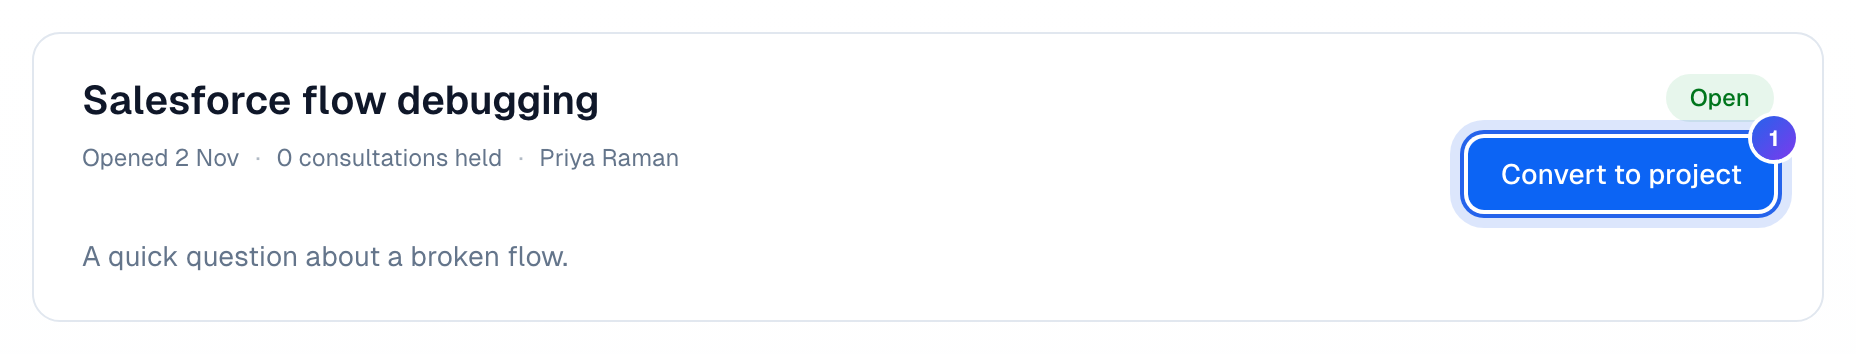
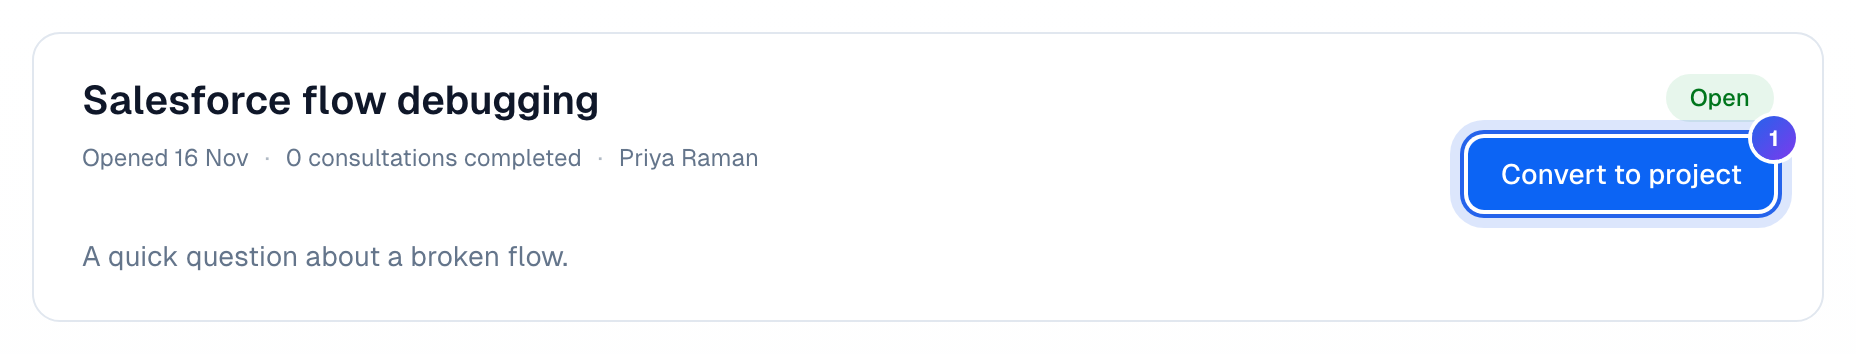
fix: recap "Didn't take place" chip, no-show "Room open" line, counted noun, fresh help shots (BAL-648)
Review follow-ups on the Held -> Completed change:

- recap status chip: "Not held" -> "Didn't take place" (it sat beside
  "Completed" in the same chip set and negated the retired word)
- no-show money line: "N min call" -> "Room open N min · billed at the
  …-minute minimum" — the client never joined, so "call" contradicted
  the chip; this states the room time and names nobody
- case cards: "N completed" -> "N consultation(s) completed", so it
  can't be read as action items done next to "3 for you"
- help screenshots re-captured: your-cases/03 and
  turning-a-case-into-a-project/01 (light + dark) showed the old word

Changed region(s): [[0.0938, 0.404, 0.4062, 0.4661]]

diff --git a/apps/web/src/app/(dashboard)/meetings/[meetingId]/_lib/load-recap.test.ts b/apps/web/src/app/(dashboard)/meetings/[meetingId]/_lib/load-recap.test.ts
@@ -743,25 +743,25 @@ describe('loadRecap — resolve prompt, artefacts and status', () => {
     expect(view?.state).toBe('processing');
   });
 
-  it('renders the not-held panel and a Not held chip for a no-show', async () => {
+  it('renders the not-held panel and a didn’t-take-place chip for a no-show', async () => {
     mockResolveAccess.mockResolvedValue({
       ...CASE_ACCESS,
       meeting: { ...MEETING, outcome: 'no_show_client' },
     });
     const view = await loadRecap(MEETING_ID, USER_ID, NOW);
     expect(view?.state).toBe('not_held');
-    expect(view?.header.status.label).toBe('Not held');
+    expect(view?.header.status.label).toBe("Didn't take place");
     expect(view?.notHeld?.body).toBe('Amara Okafor @ CloudPeak joined and waited.');
   });
 
-  it('renders the not-held panel and a Not held chip for venue_unavailable — never Completed', async () => {
+  it('renders the not-held panel and a didn’t-take-place chip for venue_unavailable — never Completed', async () => {
     mockResolveAccess.mockResolvedValue({
       ...CASE_ACCESS,
       meeting: { ...MEETING, outcome: 'venue_unavailable' },
     });
     const view = await loadRecap(MEETING_ID, USER_ID, NOW);
     expect(view?.state).toBe('not_held');
-    expect(view?.header.status.label).toBe('Not held');
+    expect(view?.header.status.label).toBe("Didn't take place");
     expect(view?.header.status.label).not.toBe('Completed');
     expect(view?.header.status.label).not.toBe('Wrapping up');
     expect(view?.notHeld?.reason).toBe('venue_unavailable');
@@ -1007,7 +1007,7 @@ describe('loadRecap — missed_call reads client-side presence', () => {
     const view = await loadRecap(MEETING_ID, USER_ID, NOW);
     expect(view?.lens).toBe('client');
     expect(view?.state).toBe('not_held');
-    expect(view?.header.status.label).toBe('Not held');
+    expect(view?.header.status.label).toBe("Didn't take place");
     expect(view?.notHeld).toEqual(NOBODY_JOINED_NOT_HELD);
   });
 

diff --git a/packages/shared/src/credit/money-block-display.ts b/packages/shared/src/credit/money-block-display.ts
@@ -39,7 +39,7 @@ export interface DurationLinePresence {
  * two zero shapes have no number to attach — there is nothing to floor when nobody was charged)
  * and on `billingFloorApplied` second. `no_show_client` is checked ahead of `billingFloorApplied`
  * — that shape now ALWAYS sets the flag (the floor is flatly the whole charge, owner ruling
- * 2026-08-21), but it wants its own "min call" phrasing rather than the generic short-call one,
+ * 2026-08-21), but it wants its own "Room open" phrasing rather than the generic short-call one,
  * so it must be matched first.
  *
  * Quiet fact, never punitive, never scolding, gender-neutral, no absence framing — the same
@@ -78,11 +78,11 @@ export function durationLine(block: SessionMoneyBlock, presence: DurationLinePre
     // F9, UX review round 1 — `actualMinutes`, not `durationMinutes`: `durationMinutes` is the
     // BILLED figure, which on this shape is FLATLY the floor (owner ruling 2026-08-21), so it
     // would state the floor twice while discarding the real time the expert held the room.
-    // "40 min call · billed at the 15-minute minimum" is now a TRUE statement — before R1 the
+    // "Room open 40 min · billed at the 15-minute minimum" is now a TRUE statement — before R1 the
     // client was actually charged 40 while this line claimed 15.
     return block.lens === 'client'
-      ? `${block.actualMinutes} min call · billed at the ${block.billingFloorMinutes}-minute minimum` // pending-MJ
-      : `${block.actualMinutes} min call · paid the ${block.billingFloorMinutes}-minute minimum`; // pending-MJ
+      ? `Room open ${block.actualMinutes} min · billed at the ${block.billingFloorMinutes}-minute minimum` // pending-MJ
+      : `Room open ${block.actualMinutes} min · paid the ${block.billingFloorMinutes}-minute minimum`; // pending-MJ
   }
   if (block.billingFloorApplied) {
     return block.lens === 'client'

diff --git a/apps/web/src/components/balo/recap/money-block.test.tsx b/apps/web/src/components/balo/recap/money-block.test.tsx
@@ -343,14 +343,16 @@ describe('MoneyBlock', () => {
   // real held time the expert waited is silently discarded.
   it('renders the no-show line keyed on shape, using actualMinutes not durationMinutes (client)', () => {
     render(<MoneyBlock block={CLIENT_NO_SHOW} />);
-    expect(screen.getByText('18 min call · billed at the 15-minute minimum')).toBeInTheDocument();
-    expect(screen.queryByText(/^15 min call/)).not.toBeInTheDocument();
+    expect(
+      screen.getByText('Room open 18 min · billed at the 15-minute minimum')
+    ).toBeInTheDocument();
+    expect(screen.queryByText(/Room open 15 min/)).not.toBeInTheDocument();
   });
 
   // UX review round 1, F8 — expert lens for the same shape must say "paid", never "billed".
   it('renders the no-show line for the expert lens', () => {
     render(<MoneyBlock block={EXPERT_NO_SHOW} />);
-    expect(screen.getByText('18 min call · paid the 15-minute minimum')).toBeInTheDocument();
+    expect(screen.getByText('Room open 18 min · paid the 15-minute minimum')).toBeInTheDocument();
     expect(screen.queryByText(/billed/)).not.toBeInTheDocument();
   });
 

diff --git a/packages/shared/src/credit/money-block.test.ts b/packages/shared/src/credit/money-block.test.ts
@@ -178,7 +178,7 @@ describe('BAL-412 — actualMinutes / billingFloorApplied / billingFloorMinutes 
     // R1 — `no_show_client` bills the floor FLAT (owner ruling, 2026-08-21), so the BILLED figure
     // (15) is BELOW `actualMinutes` (40). The old re-derivation `durationMinutes > actualMinutes`
     // reported `false` here — on the very shape where the floor IS the entire charge. The
-    // snapshot says `true`, and the recap's "40 min call · billed at the 15-minute minimum" is
+    // snapshot says `true`, and the recap's "Room open 40 min · billed at the 15-minute minimum" is
     // now a true statement.
     const block = buildClientMoneyBlock(
       clientInput({

diff --git a/packages/shared/src/credit/money-block-display.test.ts b/packages/shared/src/credit/money-block-display.test.ts
@@ -135,9 +135,11 @@ describe('durationLine', () => {
 
   it('renders the no-show line keyed on shape, using actualMinutes not durationMinutes', () => {
     expect(durationLine(CLIENT_NO_SHOW, NOT_READ)).toBe(
-      '18 min call · billed at the 15-minute minimum'
+      'Room open 18 min · billed at the 15-minute minimum'
     );
-    expect(durationLine(EXPERT_NO_SHOW, NOT_READ)).toBe('18 min call · paid the 15-minute minimum');
+    expect(durationLine(EXPERT_NO_SHOW, NOT_READ)).toBe(
+      'Room open 18 min · paid the 15-minute minimum'
+    );
   });
 
   it('renders the missed-call line, per lens', () => {

diff --git a/apps/web/src/app/(dashboard)/cases/_lib/cases-index-copy.ts b/apps/web/src/app/(dashboard)/cases/_lib/cases-index-copy.ts
@@ -135,7 +135,8 @@ export const CASES_INDEX_UNREAD = 'New';
 
 export const casesIndexLastCall = (date: string): string => `Last call ${date}`;
 export const casesIndexOpenedAt = (date: string): string => `Opened ${date}`;
-export const casesIndexHeldCount = (count: number): string => `${count} completed`;
+export const casesIndexHeldCount = (count: number): string =>
+  `${count} ${count === 1 ? 'consultation' : 'consultations'} completed`;
 export const casesIndexItemsForYou = (count: number): string => `${count} for you`;
 export const casesIndexWaitingOn = (party: string): string => `Waiting on ${party}`;
 

diff --git a/apps/web/src/app/(dashboard)/meetings/[meetingId]/_components/recap-status-chip.tsx b/apps/web/src/app/(dashboard)/meetings/[meetingId]/_components/recap-status-chip.tsx
@@ -12,7 +12,7 @@ import type { RecapStatusTone, RecapStatusView } from '@/lib/meetings/recap-view
  * cannot honestly supply. This chip carries the recap's own four labels, reuses the same
  * shipped `Badge` primitive and the same semantic tokens, and adds nothing else.
  *
- * ⚠ THE CHIP NEVER NAMES WHO WAS ABSENT. Both no-show outcomes read "Not held"; who was where
+ * ⚠ THE CHIP NEVER NAMES WHO WAS ABSENT. Both no-show outcomes read "Didn't take place"; who was where
  * is R11's body copy's job, stated exactly once.
  */
 const ICONS: Record<RecapStatusView['icon'], LucideIcon> = {

diff --git a/apps/web/src/app/(dashboard)/cases/_components/cases-index-shell.test.tsx b/apps/web/src/app/(dashboard)/cases/_components/cases-index-shell.test.tsx
@@ -731,7 +731,7 @@ describe('CasesIndexShell — the Resolved section', () => {
     });
     expect(await screen.findByText('Einstein bot handoff')).toBeInTheDocument();
     expect(screen.getByText('Closed automatically on')).toBeInTheDocument();
-    expect(screen.getByText('1 completed')).toBeInTheDocument();
+    expect(screen.getByText('1 consultation completed')).toBeInTheDocument();
 
     await user.click(toggle);
     expect(track).toHaveBeenCalledWith(RECAP_EVENTS.CASES_INDEX_RESOLVED_TOGGLED, {

diff --git a/apps/web/src/app/(dashboard)/meetings/[meetingId]/_lib/load-recap.ts b/apps/web/src/app/(dashboard)/meetings/[meetingId]/_lib/load-recap.ts
@@ -152,7 +152,7 @@ function resolveStatus(
     meeting.outcome === 'missed_call' ||
     meeting.outcome === 'venue_unavailable'
   ) {
-    return { label: 'Not held', tone: 'neutral', icon: 'ban' };
+    return { label: "Didn't take place", tone: 'neutral', icon: 'ban' };
   }
   if (artifactsProcessing) {
     return { label: 'Wrapping up', tone: 'warning', icon: 'clock' };

diff --git a/apps/web/src/app/(dashboard)/meetings/[meetingId]/_components/recap-header.test.tsx b/apps/web/src/app/(dashboard)/meetings/[meetingId]/_components/recap-header.test.tsx
@@ -11,7 +11,7 @@ const HEADER: RecapHeaderView = {
   eyebrow: 'Consultation',
   caseHref: null,
   title: 'Flow interview stuck on a loop',
-  status: { label: 'Not held', tone: 'neutral', icon: 'ban' },
+  status: { label: "Didn't take place", tone: 'neutral', icon: 'ban' },
   closedNote: null,
   occurredAtIso: '2026-07-29T04:00:00.000Z',
   durationMinutes: null,

diff --git a/apps/web/src/app/(dashboard)/cases/_components/case-card.test.tsx b/apps/web/src/app/(dashboard)/cases/_components/case-card.test.tsx
@@ -400,7 +400,7 @@ describe('CaseCard — the footer facts', () => {
         onTrack={vi.fn()}
       />
     );
-    expect(screen.queryByText(/0 completed|0 for you/)).not.toBeInTheDocument();
+    expect(screen.queryByText(/0 consultations completed|0 for you/)).not.toBeInTheDocument();
     expect(screen.queryByText('New')).not.toBeInTheDocument();
   });
 
